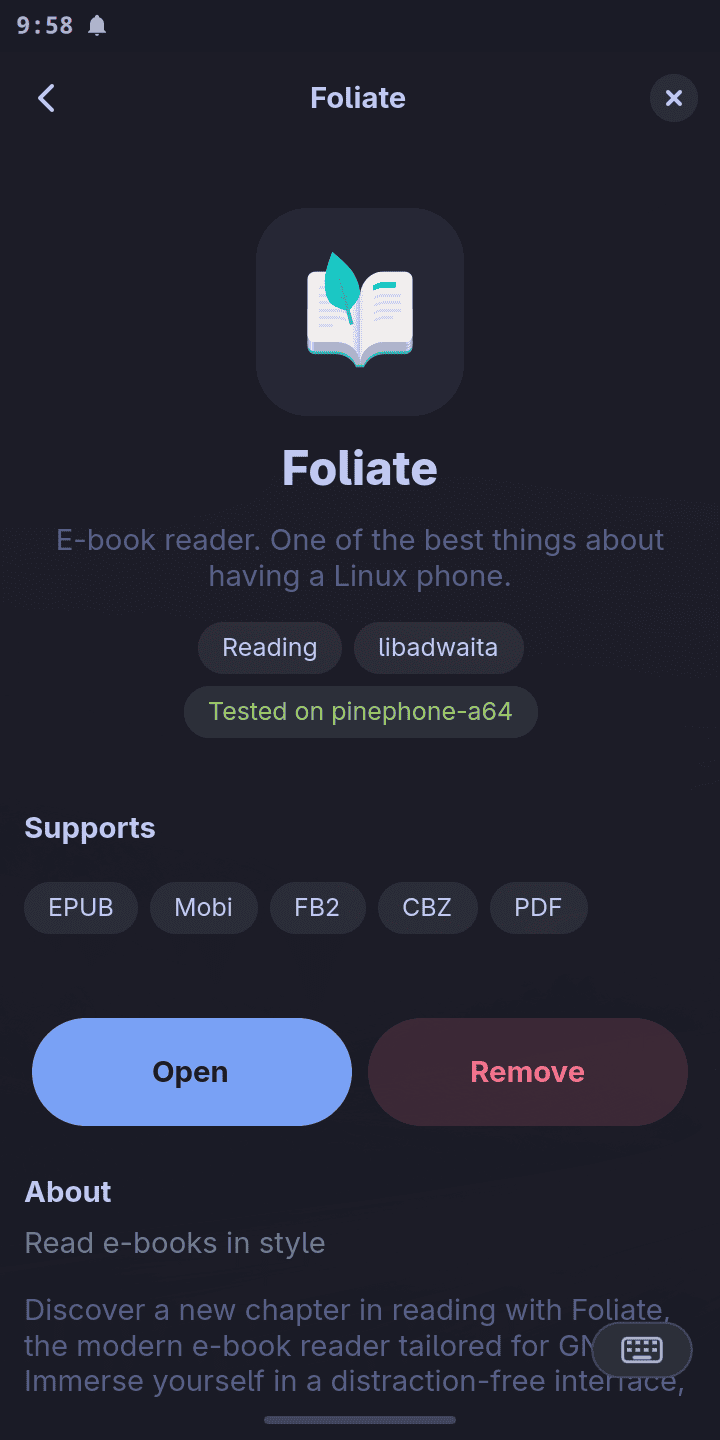
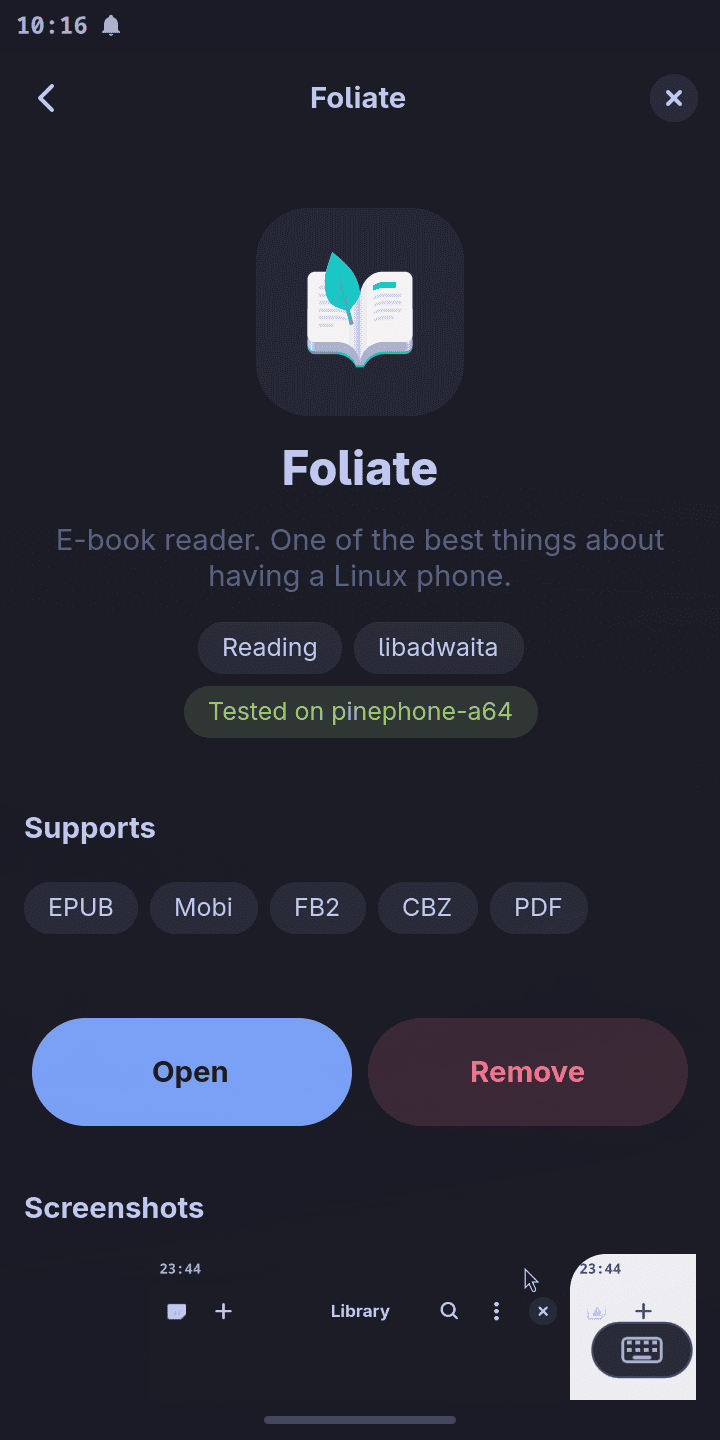
A glyph and a name on the tile, and the screenshot under the button
The category tiles carried a count -- "3/9", or the bare total where nothing
was installed -- and the grid led with an "All apps" tile that reopened the
flat list the grid had just replaced. Both were things to read before you
could use the grid. A way in does not need a number under every door, and the
count still sits on the category's own page, in the header bar, where it is
about the thing you are looking at.

Dropping "All apps" leaves no route to a whole-catalogue list, so CategoryPage
no longer takes None and the branch that grouped it by category is gone.
Search still answers the "where is X" question the flat list was really for.

On the detail page the screenshots move up from last to directly under the
Install button, ahead of About and Details. Once the hero has said what the
app is, the next question is what it looks like, and a picture answers that
faster than two paragraphs -- so what follows the action is the app itself
rather than a description of it. On a 720px screen that puts the first
screenshot on the same view as the button.

diff --git a/moarchy_store/window.py b/moarchy_store/window.py
@@ -144,8 +144,8 @@ CATEGORY_ICONS = {
             "globe-symbolic"),
 }
 
-# What "All apps" gets, and what a category this table has never heard of gets.
-# A new category in the catalogue should look unremarkable here, not broken.
+# What a category this table has never heard of gets. A new category in the
+# catalogue should look unremarkable here, not broken.
 GENERIC_ICONS = ("view-app-grid-symbolic", "view-grid-symbolic",
                  "applications-other-symbolic", "view-list-symbolic")
 
@@ -230,17 +230,18 @@ def category_image(category: str | None, pixels: int) -> Gtk.Image:
     return image
 
 
-def category_tile(title: str, apps: list[App], on_click) -> Gtk.Widget:
-    """One cell of the front page's grid: what the category is, and how much of
-    it you already have.
+def category_tile(title: str, on_click) -> Gtk.Widget:
+    """One cell of the front page's grid: a glyph and what the category is.
 
     A button rather than a row, because the whole cell is the target. At 360px
-    the grid is three across, which leaves about 106px -- enough for a glyph, a
-    word and a count, and not enough for anything else, so the name ellipsises
-    rather than wrapping a category into two lines of ragged text.
-    """
-    installed = sum(1 for a in apps if a.installed)
+    the grid is three across, which leaves about 106px -- enough for a glyph
+    and a word, and not enough for anything else, so the name ellipsises rather
+    than wrapping a category into two lines of ragged text.
 
+    The count of what you already have lives on the category's own page, in the
+    header bar, and not here. A grid is a way in; a number under every door is
+    something to read before you can use one.
+    """
     icon = category_image(title, 24)
 
     name = Gtk.Label(label=title)
@@ -248,17 +249,10 @@ def category_tile(title: str, apps: list[App], on_click) -> Gtk.Widget:
     name.set_ellipsize(Pango.EllipsizeMode.END)
     name.set_max_width_chars(12)
 
-    # The fraction only once there is a numerator. On a phone that has just
-    # been flashed every tile would otherwise read "0/23", fourteen times, and
-    # a column of zeroes says nothing the bare count does not.
-    count = Gtk.Label(label=f"{installed}/{len(apps)}" if installed else str(len(apps)))
-    count.add_css_class("category-count")
-
-    box = Gtk.Box(orientation=Gtk.Orientation.VERTICAL, spacing=4)
+    box = Gtk.Box(orientation=Gtk.Orientation.VERTICAL, spacing=6)
     box.set_valign(Gtk.Align.CENTER)
     box.append(icon)
     box.append(name)
-    box.append(count)
 
     tile = Gtk.Button()
     tile.add_css_class("category-tile")
@@ -266,7 +260,6 @@ def category_tile(title: str, apps: list[App], on_click) -> Gtk.Widget:
     # The number the FlowBox counts with: three of these plus spacing do not
     # fit a 360px screen four times, and do fit a 640px one.
     tile.set_size_request(96, -1)
-    tile.set_tooltip_text(f"{installed} of {len(apps)} installed")
     tile.connect("clicked", lambda *_: on_click())
     return tile
 
@@ -532,11 +525,55 @@ class DetailPage(Adw.NavigationPage):
         actions.add(self.status_label)
         page.add(actions)
 
-        # After the button, like the facts: prose is what you read once you
-        # have decided, or when the summary above did not settle it. The
-        # subtitle rides as the group description -- it is what the app calls
-        # itself, where `summary` is what we think of it, and stacking both
-        # under the hero would put two one-liners in a row.
+        # Directly under the button and ahead of the prose. Once the hero has
+        # said what this is, the next question is what it looks like, and a
+        # picture answers that faster than two paragraphs -- so what follows
+        # the action is the app itself, not a description of it.
+        #
+        # Fetched from GitHub and cached. The group only appears once an image
+        # actually arrives, so an offline phone shows a clean page rather than
+        # a broken-image placeholder.
+        shots = self._shot_order(app)
+        self.shot_group = Adw.PreferencesGroup(
+            title="Screenshot" if len(shots) < 2 else "Screenshots"
+        )
+        box = Gtk.Box(orientation=Gtk.Orientation.VERTICAL, spacing=6)
+        self.shot_carousel = Adw.Carousel()
+        self.shot_carousel.set_allow_long_swipes(False)
+
+        # Every page is built now and filled by index as fetches land. They
+        # complete out of order, so appending on arrival would shuffle light
+        # and dark around between runs.
+        self.shot_pictures = []
+        for _ in shots:
+            picture = Gtk.Picture()
+            picture.set_can_shrink(True)
+            picture.set_content_fit(Gtk.ContentFit.CONTAIN)
+            picture.set_size_request(-1, 420)
+            picture.add_css_class("shot-frame")
+            self.shot_carousel.append(picture)
+            self.shot_pictures.append(picture)
+        box.append(self.shot_carousel)
+
+        # Dots only when there is somewhere to swipe to.
+        if len(shots) > 1:
+            box.append(Adw.CarouselIndicatorDots(carousel=self.shot_carousel))
+
+        self.shot_group.add(box)
+        self.shot_group.set_visible(False)
+        page.add(self.shot_group)
+
+        for index, name in enumerate(shots):
+            media.fetch(
+                name,
+                lambda path, i=index: GLib.idle_add(self._show_screenshot, i, path),
+            )
+
+        # After the screenshot: prose is what you read once you have decided,
+        # or when the summary above did not settle it. The subtitle rides as
+        # the group description -- it is what the app calls itself, where
+        # `summary` is what we think of it, and stacking both under the hero
+        # would put two one-liners in a row.
         if app.description or app.subtitle:
             about = Adw.PreferencesGroup(title="About")
             if app.subtitle:
@@ -582,46 +619,6 @@ class DetailPage(Adw.NavigationPage):
             facts.add(self._row("Homepage", app.homepage))
         # No Verified row: the hero chip above already says it, in colour.
         page.add(facts)
-
-        # Screenshots are fetched from GitHub and cached. The group only
-        # appears once an image actually arrives, so an offline phone shows a
-        # clean page rather than a broken-image placeholder.
-        shots = self._shot_order(app)
-        self.shot_group = Adw.PreferencesGroup(
-            title="Screenshot" if len(shots) < 2 else "Screenshots"
-        )
-        box = Gtk.Box(orientation=Gtk.Orientation.VERTICAL, spacing=6)
-        self.shot_carousel = Adw.Carousel()
-        self.shot_carousel.set_allow_long_swipes(False)
-
-        # Every page is built now and filled by index as fetches land. They
-        # complete out of order, so appending on arrival would shuffle light
-        # and dark around between runs.
-        self.shot_pictures = []
-        for _ in shots:
-            picture = Gtk.Picture()
-            picture.set_can_shrink(True)
-            picture.set_content_fit(Gtk.ContentFit.CONTAIN)
-            picture.set_size_request(-1, 420)
-            picture.add_css_class("shot-frame")
-            self.shot_carousel.append(picture)
-            self.shot_pictures.append(picture)
-        box.append(self.shot_carousel)
-
-        # Dots only when there is somewhere to swipe to.
-        if len(shots) > 1:
-            box.append(Adw.CarouselIndicatorDots(carousel=self.shot_carousel))
-
-        self.shot_group.add(box)
-        self.shot_group.set_visible(False)
-        page.add(self.shot_group)
-
-        for index, name in enumerate(shots):
-            media.fetch(
-                name,
-                lambda path, i=index: GLib.idle_add(self._show_screenshot, i, path),
-            )
-
 
         toolbar.set_content(page)
         self.set_child(toolbar)
@@ -807,15 +804,15 @@ class DetailPage(Adw.NavigationPage):
 
 
 class CategoryPage(Adw.NavigationPage):
-    """Every app in one category, or the whole catalogue when category is None.
+    """Every app in one category.
 
     A page of its own rather than a filter on the front page: at 360px,
     browsing is choosing a shelf and then reading it, and the back gesture is
     already how everything else in this window is left.
     """
 
-    def __init__(self, category: str | None, window: "StoreWindow"):
-        super().__init__(title=category or "All apps")
+    def __init__(self, category: str, window: "StoreWindow"):
+        super().__init__(title=category)
         self.category = category
         self.window = window
 
@@ -852,14 +849,10 @@ class CategoryPage(Adw.NavigationPage):
         installed = sum(1 for a in apps if a.installed)
         self.window_title.set_subtitle(f"{installed} of {len(apps)} installed")
 
-        if self.category is None:
-            for category, group in by_category(apps).items():
-                self.list_box.append(app_group(category, group, self.window.open_detail))
-        else:
-            # No group title: the header bar already says which category this
-            # is, and repeating it immediately below costs a line of a screen
-            # that has 720 of them.
-            self.list_box.append(app_group("", apps, self.window.open_detail))
+        # No group title: the header bar already says which category this is,
+        # and repeating it immediately below costs a line of a screen that has
+        # 720 of them.
+        self.list_box.append(app_group("", apps, self.window.open_detail))
 
 
 class StoreWindow(Adw.ApplicationWindow):
@@ -927,11 +920,10 @@ class StoreWindow(Adw.ApplicationWindow):
                     GLib.idle_add(self.open_detail, app)
                     break
 
-        # MOARCHY_STORE_CATEGORY=<name> does the same for a category page, and
-        # the empty string opens All apps.
+        # MOARCHY_STORE_CATEGORY=<name> does the same for a category page.
         wanted = os.environ.get("MOARCHY_STORE_CATEGORY")
-        if wanted is not None:
-            GLib.idle_add(self._open_category, wanted or None)
+        if wanted:
+            GLib.idle_add(self._open_category, wanted)
 
         # Do not let the search entry take focus at startup. squeekboard raises
         # itself whenever a text field is focused, so an autofocused search box
@@ -1018,10 +1010,10 @@ class StoreWindow(Adw.ApplicationWindow):
 
         A grid rather than the catalogue itself. 109 rows in one column is a
         list you scroll past rather than read, and it opened on Chat every
-        time because C sorts early -- so the first screen now says what the
-        store has and how much of it you already carry, and the shelf under it
-        answers the question someone arriving actually has, which is not
-        "which category" but "what should I install".
+        time because C sorts early -- so the first screen is fourteen ways in
+        and nothing else, and the shelf under it answers the question someone
+        arriving actually has, which is not "which category" but "what should
+        I install".
         """
         grid = Gtk.FlowBox()
         grid.set_selection_mode(Gtk.SelectionMode.NONE)
@@ -1035,16 +1027,9 @@ class StoreWindow(Adw.ApplicationWindow):
         grid.set_row_spacing(8)
         grid.set_column_spacing(8)
 
-        # First, and not a category: the old flat list, for when you want to
-        # read the whole thing rather than go looking for something.
-        grid.append(
-            category_tile("All apps", self.apps, lambda: self._open_category(None))
-        )
-        for category, apps in by_category(self.apps).items():
+        for category in by_category(self.apps):
             grid.append(
-                category_tile(
-                    category, apps, lambda c=category: self._open_category(c)
-                )
+                category_tile(category, lambda c=category: self._open_category(c))
             )
 
         categories = Adw.PreferencesGroup(title="Categories")
@@ -1077,17 +1062,14 @@ class StoreWindow(Adw.ApplicationWindow):
         choice.add(shelf)
         self.list_box.append(choice)
 
-    def apps_in(self, category: str | None) -> list[App]:
-        """One category's apps by name, or the whole catalogue as it was
-        loaded -- by_category sorts each group itself."""
-        if category is None:
-            return list(self.apps)
+    def apps_in(self, category: str) -> list[App]:
+        """One category's apps, by name."""
         return sorted(
             (a for a in self.apps if a.category == category),
             key=lambda a: a.name.lower(),
         )
 
-    def _open_category(self, category: str | None) -> None:
+    def _open_category(self, category: str) -> None:
         self.category_page = CategoryPage(category, self)
         self.nav.push(self.category_page)
 

diff --git a/moarchy_store/theme.py b/moarchy_store/theme.py
@@ -277,11 +277,6 @@ WIDGETS = """
   font-size: 0.92em;
 }
 
-.category-count {
-  font-size: 0.75em;
-  color: @moarchy_dim;
-}
-
 .pick-card {
   padding: 12px;
 }

diff --git a/README.md b/README.md
@@ -3,9 +3,9 @@
 A curated store of Linux phone apps that **actually fit a small screen**.
 
 <p align="center">
-  <img src="docs/screenshots/store-home.png" width="31%" alt="The front page: a three-across grid of category tiles, each an accent glyph over its name and how many of its apps are installed, with Editor's Choice beginning below it">
+  <img src="docs/screenshots/store-home.png" width="31%" alt="The front page: a three-across grid of category tiles, each an accent glyph over the category name, with Editor's Choice beginning below it">
   <img src="docs/screenshots/store-category.png" width="31%" alt="The Chat category: a back arrow, the title with 4 of 9 installed underneath, then one row per app with a rounded icon tile, a one-line note on why it works on a phone, and a green tick where it is already installed">
-  <img src="docs/screenshots/store-detail.png" width="31%" alt="Foliate's page: a large icon, its summary, chips for category, toolkit and the device it was tested on, then Open and Remove side by side above the package details">
+  <img src="docs/screenshots/store-detail.png" width="31%" alt="Foliate's page: a large icon, its summary, chips for category, toolkit and the device it was tested on, then Open and Remove side by side, with the screenshots beginning immediately below them">
 </p>
 
 <p align="center"><em>Shot in the omarchy-mobile VM at 360×720. The palette is
@@ -23,8 +23,8 @@ Mobile, postmarketOS, or any Arch-based phone.
 ## What it does
 
 - Browse curated apps by category, with a note on *why* each one works
-- Opens on the categories rather than on the catalogue, and on ten picks worth
-  starting with
+- Opens on a grid of the categories rather than on the catalogue, and on ten
+  picks worth starting with
 - See installed state, version and download size, read live from the system
 - Install, open and remove, from the app, by touch
 - Marks which entries were verified on real hardware and which are suggestions
@@ -42,8 +42,9 @@ Mobile, postmarketOS, or any Arch-based phone.
   <img src="docs/screenshots/store-picks.png" width="45%" alt="The Editor's Choice section: a heading, a line saying each pick was measured at 360px and follows your theme, then a card per app with its icon, name and one-line summary">
 </p>
 
-The front page is a grid of categories and, underneath it, about ten apps
-marked `featured = true` in the catalogue. It is the store saying *start here*,
+The front page is a grid of categories — a glyph and a name, nothing to read
+before you can use it — and underneath it about ten apps marked `featured =
+true` in the catalogue. It is the store saying *start here*,
 so the bar is higher than being listed: measured as `fits` at 360×674, `themed
 = "yes"`, run on a device, and cheap enough that installing it is not a
 decision. One app per job — two music players on that shelf would mean neither
